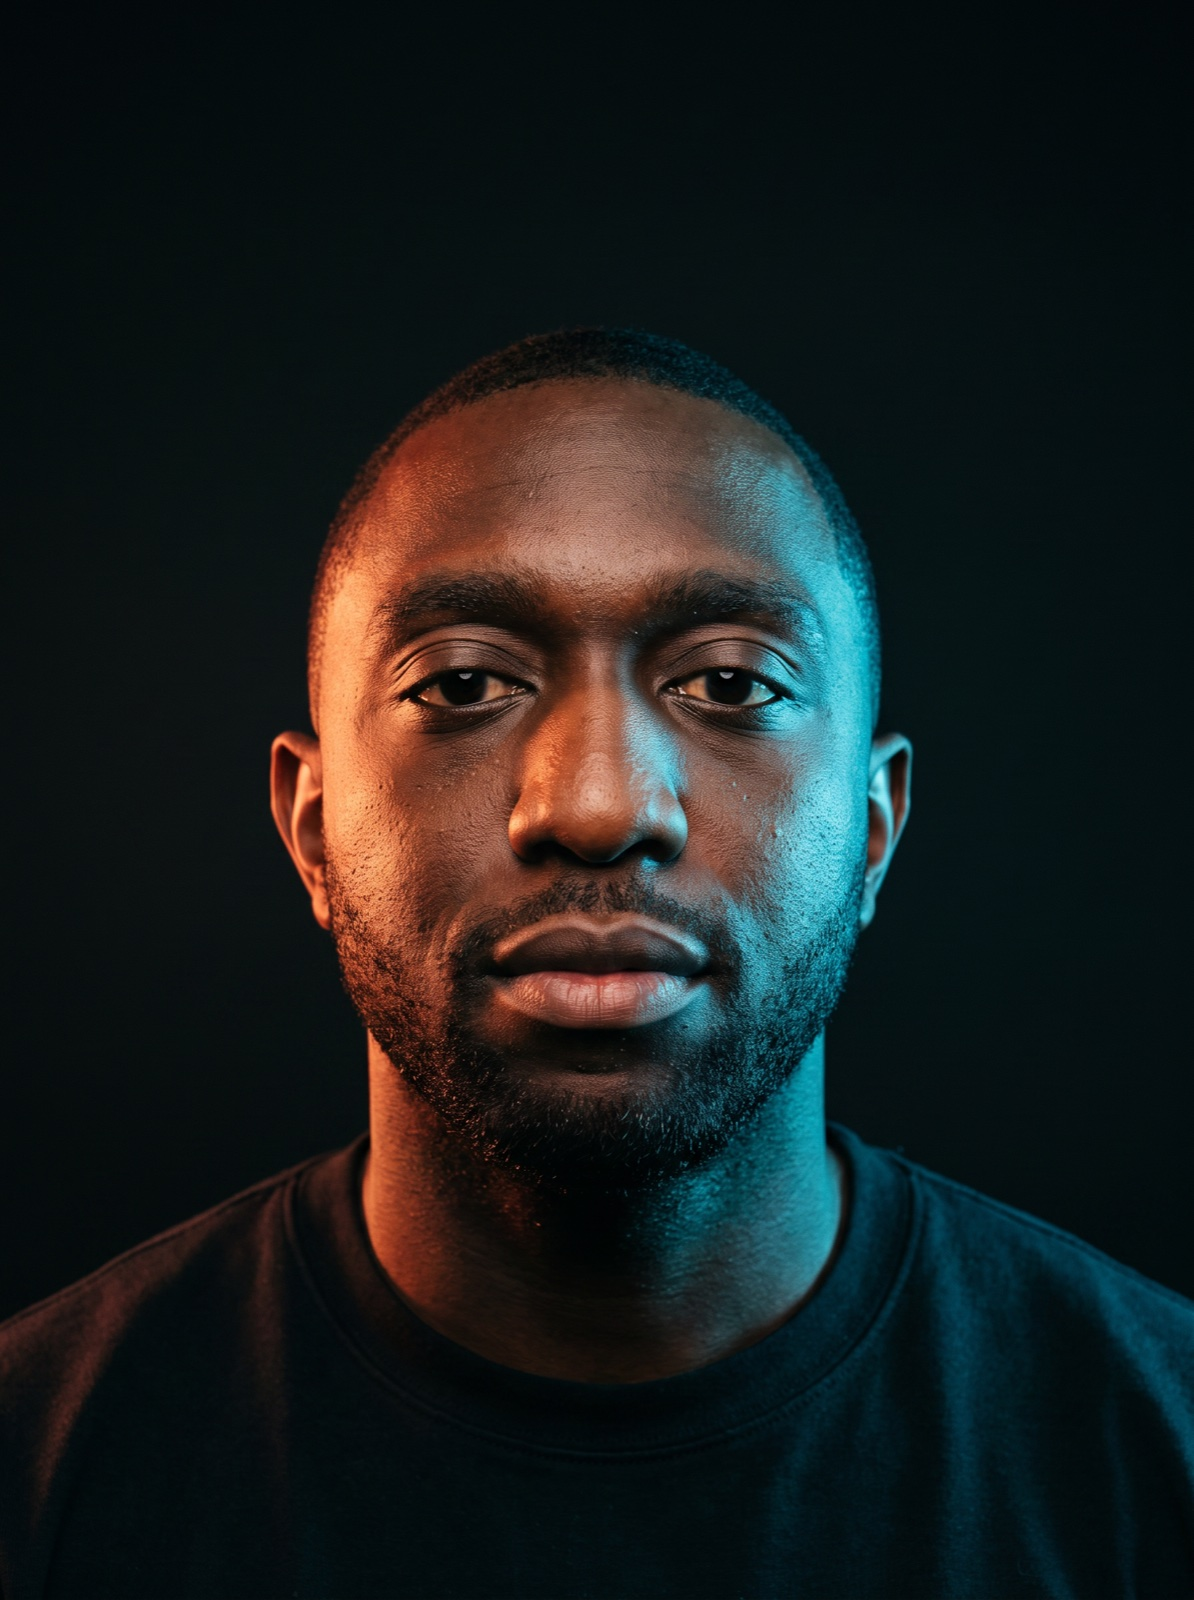
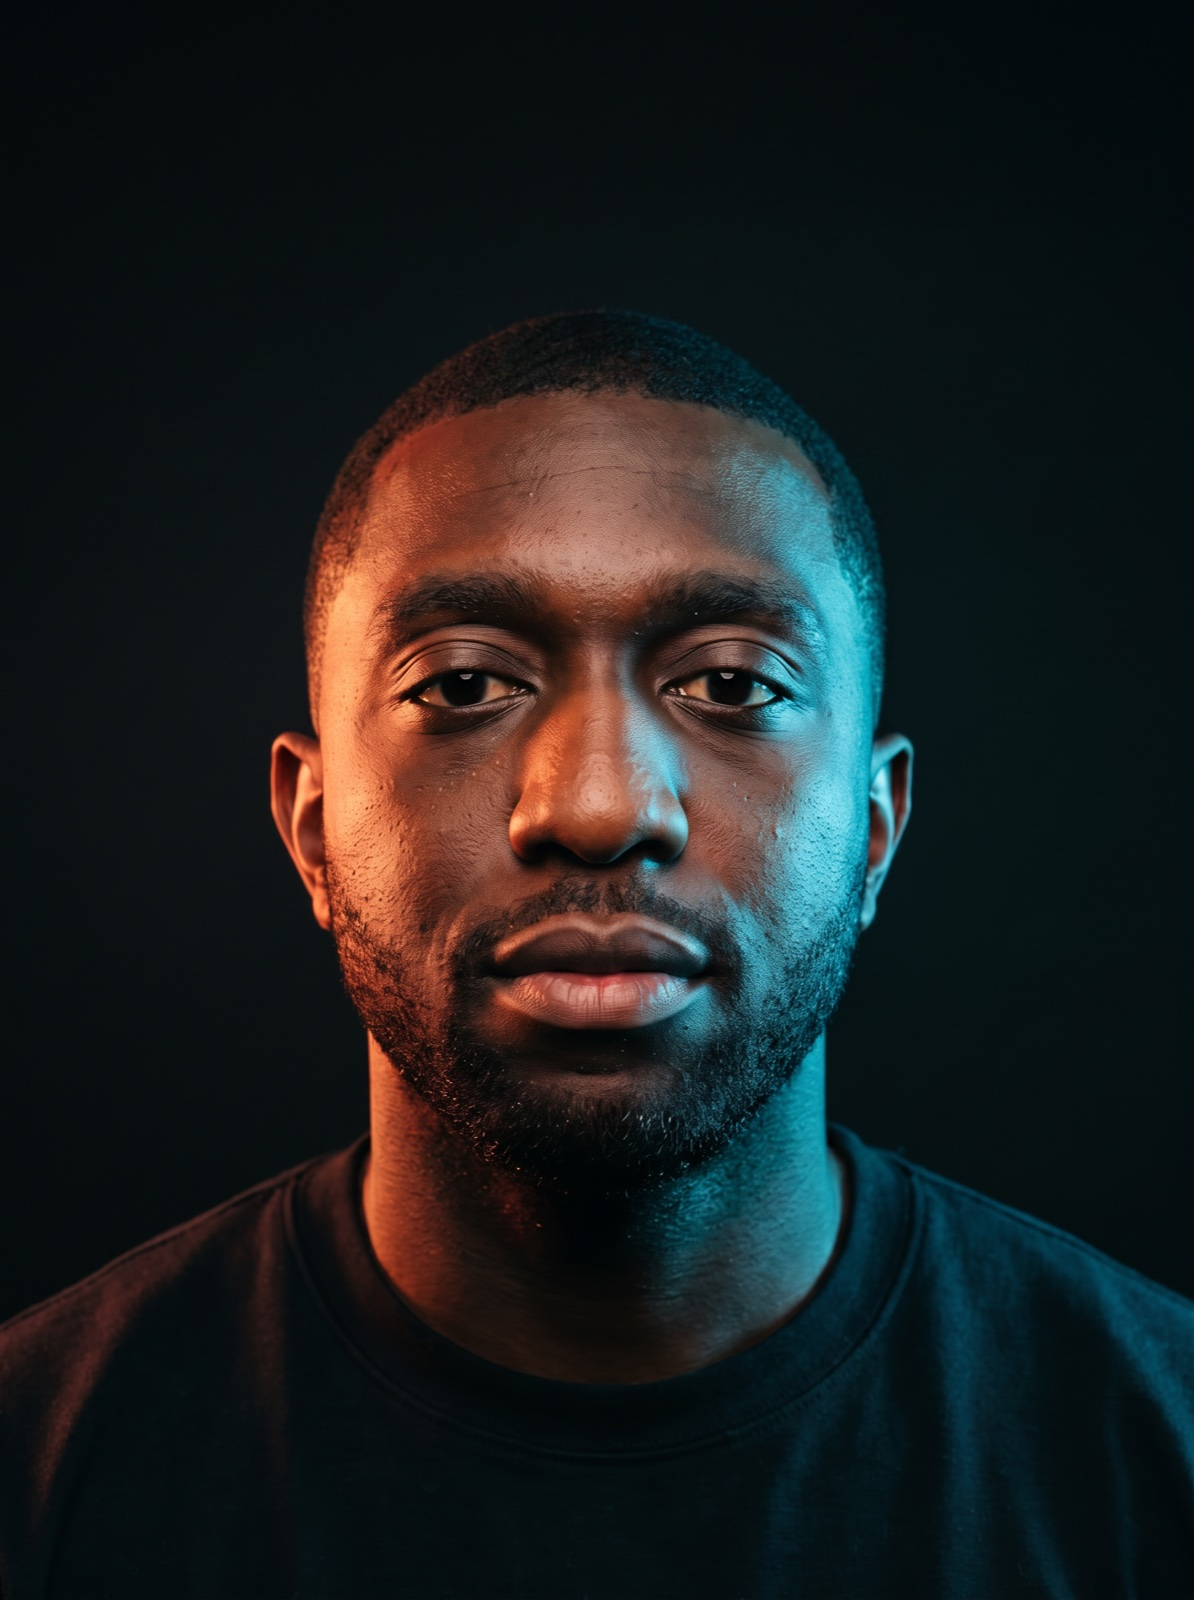
Hero v2: lowered hairline; full-bleed hero spec from Mobbin refs

diff --git a/docs/prd.md b/docs/prd.md
@@ -28,15 +28,15 @@ assets/         photos (photo-01..08.jpg) + hero.jpg (AI-generated split-lightin
 
 ### Home (`index.html`)
 - **Top nav**: site-wide, same markup on all 3 pages. Left: wordmark "JOSEPH" (links to index). Right: links Home / Art / Tech. Current page link visually distinct. Nav is a plain flex row, sticky top, translucent dark background with backdrop blur.
-- **Hero**: `assets/hero.jpg` — a portrait lit warm on the left half, cool on the right half. Displayed large and centered (max-height ~70vh, rounded). Headline above or overlaid: "Two sides. One lens." Subline: "Art & engineering, by Joseph."
-- **Duality CTAs**: directly under the hero, two large arrow links side by side:
+- **Hero** (full-bleed, reference: Mobbin/Adobe Express portfolio hero): a full-viewport section (100svh minus nav) with `assets/hero.jpg` as its background (a portrait lit warm on the left half, cool on the right half), `background-size: cover`, `background-position: center top`. Overlaid, centered vertically at ~55% height: the name "JOSEPH" in oversized type (`clamp(3.5rem, 14vw, 10rem)`, weight 700, letter-spacing 0.05em, white, subtle text-shadow for legibility). Beneath it, small-caps tagline: "Two sides. One lens." in muted text. A bottom gradient scrim (transparent → `#0a0a0b`) blends the hero into the page.
+- **Duality CTAs**: overlaid at the bottom of the hero (above the scrim), two large arrow links side by side with space between:
   - Left: "← Art" → `art.html`, warm accent color.
   - Right: "Tech →" → `tech.html`, cool accent color.
   - On hover each grows slightly and its arrow slides outward (CSS transition only).
-- Mobile (<700px): CTAs stack vertically, hero full-width.
+- Mobile (<700px): name type scales down via clamp; CTAs stack vertically.
 
 ### Art (`art.html`)
-- Same nav. Page title "Art" with warm accent underline, one-line intro.
+- Same nav. Small uppercase eyebrow label "GALLERY" in muted text (reference: Mobbin/Siena Film Foundation gallery), then page title "Art" with warm accent underline, one-line intro. Generous vertical whitespace — let the photos float in the dark.
 - Photo grid of `assets/photo-01.jpg` … `photo-08.jpg`: CSS `columns` masonry (3 cols desktop, 2 tablet, 1 mobile), 12px gaps, rounded images, subtle hover lift.
 - Each image wrapped in `<a href>` to the full file (native full view; no lightbox JS).
 - Meaningful alt text on every image.
